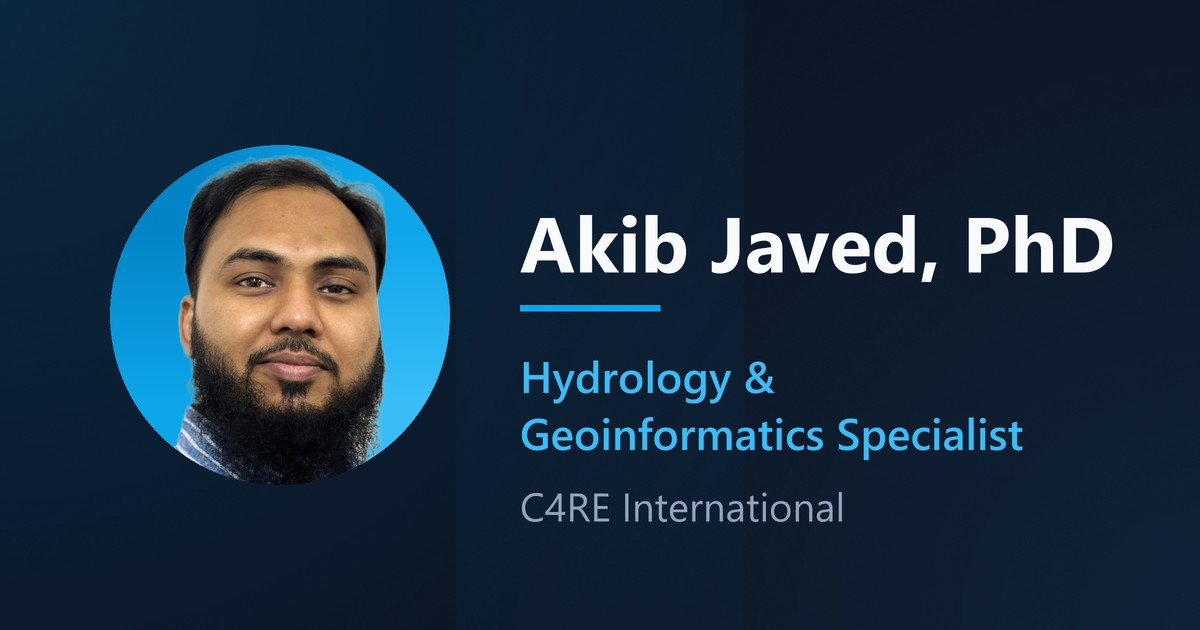
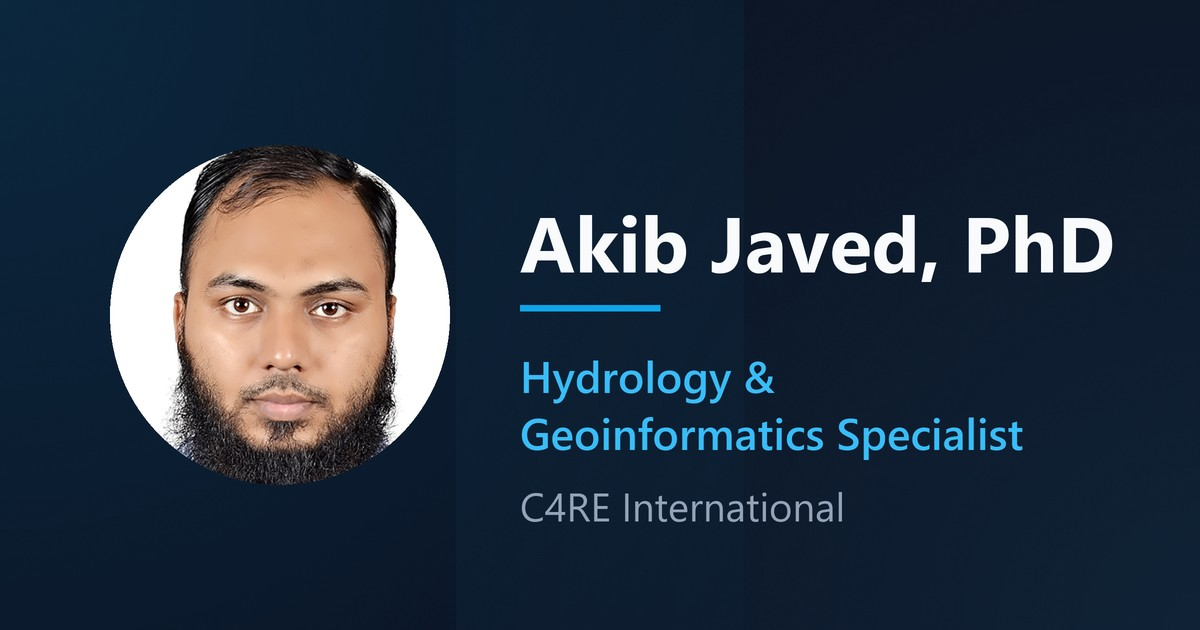
Replace the card photo with the new headshot
icon.png, og-image.jpg and the vCard PHOTO are all regenerated from 35-45.jpg:
a 413x531 headshot cropped to the square (0, 28, 413, 441), which puts the hair
flush to the top edge without clipping the beard. The frame was picked by
rendering the candidates and looking at them, not by arithmetic.

The previous source was a transparent cut-out composited over the card's
gradient. This photo is opaque with a white background of its own, so that
compositing only ever produced the photo back — it has been removed. A guard
now fails loudly if CROP stops fitting a replaced source photo, which is the
likeliest way this silently crops the wrong region.

The source photo stays untracked: Pages serves this branch, so committing it
would publish the full-resolution photograph at a public URL.

Changed region(s): [[0.0925, 0.2111, 0.4008, 0.7841]]

diff --git a/tools/make_assets.py b/tools/make_assets.py
@@ -1,13 +1,13 @@
 #!/usr/bin/env python3
 """Generate the digital card's image assets and refresh the vCard PHOTO field.
 
-    python tools/make_assets.py          regenerate icon.png, og-image.png, contact.vcf PHOTO
+    python tools/make_assets.py          regenerate icon.png, og-image.jpg, contact.vcf PHOTO
     python tools/make_assets.py --check  verify the artefacts on disk, write nothing
 
-Rerun this after replacing Akib_Javed_Photo_Square.png, or after changing a name/title
-string below. Pillow only, no other dependency. The assertions at the bottom are the check:
-they fail loudly if the framing overflows, the vCard photo is truncated, or the .vcf grows
-past the size contact importers tolerate.
+Rerun this after replacing 35-45.jpg, or after changing a name/title string below.
+Pillow only, no other dependency. The assertions at the bottom are the check: they fail loudly
+if the framing overflows, the vCard photo is truncated, or the .vcf grows past the size that
+contact importers tolerate.
 """
 
 from __future__ import annotations
@@ -21,26 +21,26 @@ from pathlib import Path
 from PIL import Image, ImageChops, ImageDraw, ImageFont
 
 ROOT = Path(__file__).resolve().parent.parent
-SOURCE = ROOT / "Akib_Javed_Photo_Square.png"
+SOURCE = ROOT / "35-45.jpg"
 ICON = ROOT / "icon.png"
 OG = ROOT / "og-image.jpg"
 VCF = ROOT / "contact.vcf"
 
-# Framing inside the 960x960 cut-out. Keeps the head centred with a little headroom so the
-# same crop works as a tab icon, a round avatar, and a vCard thumbnail.
-CROP = (100, 0, 860, 760)
+# Square crop of the 413x531 headshot: the top square, nudged down so the hair sits flush to
+# the top edge and the beard is not clipped at the bottom. Framed this way the head fills the
+# frame at any size, which is what a round avatar, a tab icon and a vCard thumbnail all want.
+CROP = (0, 28, 413, 441)
 
 NAME = "Akib Javed, PhD"
 TITLE_LINES = ("Hydrology &", "Geoinformatics Specialist")
 ORG = "C4RE International"
 
-# Palette, lifted from index.html's :root and .avatar-circle.
+# Palette, lifted from index.html's :root.
 BG = (11, 17, 32)               # --bg              #0B1120
 ACCENT = (14, 165, 233)         # --accent          #0EA5E9
 ACCENT_BRIGHT = (56, 189, 248)  # --accent-hover    #38BDF8
 MUTED = (148, 163, 184)         # --text-muted      #94A3B8
 MAIN = (248, 250, 252)          # --text-main       #F8FAFC
-GRAD = ((2, 132, 199), (14, 165, 233), (56, 189, 248))  # 135deg gradient stops
 
 FONT_DIR = Path("C:/Windows/Fonts")
 FONT_FILES = {
@@ -67,29 +67,11 @@ def font(weight: str, size: int) -> ImageFont.FreeTypeFont:
     raise SystemExit(f"make_assets: no usable {weight} font in {FONT_DIR}")
 
 
-def diagonal_gradient(size: int) -> Image.Image:
-    """135deg blend of the three avatar stops. A 2x2 corner image resized up is smooth
-    enough at these sizes and needs no per-pixel loop."""
-    small = Image.new("RGB", (2, 2))
-    small.putpixel((0, 0), GRAD[0])
-    small.putpixel((1, 0), GRAD[1])
-    small.putpixel((0, 1), GRAD[1])
-    small.putpixel((1, 1), GRAD[2])
-    return small.resize((size, size), Image.Resampling.BILINEAR)
-
-
 def portrait(size: int) -> Image.Image:
-    """The cut-out, cropped and resized to a square, alpha intact."""
-    src = Image.open(SOURCE).convert("RGBA").crop(CROP)
+    """The headshot, cropped square and resized. It carries its own white background, so
+    there is nothing to composite behind it — unlike the transparent cut-out it replaced."""
+    src = Image.open(SOURCE).convert("RGB").crop(CROP)
     return src.resize((size, size), Image.Resampling.LANCZOS)
-
-
-def portrait_on_gradient(size: int) -> Image.Image:
-    """Opaque square: brand gradient with the portrait over it. Used for the favicon and the
-    vCard photo, both of which need something behind a transparent cut-out."""
-    base = diagonal_gradient(size).convert("RGBA")
-    base.alpha_composite(portrait(size))
-    return base.convert("RGB")
 
 
 def glow(canvas: Image.Image, centre: tuple[int, int], radius: int, colour, alpha: int) -> None:
@@ -108,7 +90,7 @@ def glow(canvas: Image.Image, centre: tuple[int, int], radius: int, colour, alph
 
 
 def build_icon() -> None:
-    portrait_on_gradient(256).save(ICON, "PNG", optimize=True)
+    portrait(256).save(ICON, "PNG", optimize=True)
 
 
 def build_og() -> None:
@@ -120,8 +102,7 @@ def build_og() -> None:
     glow(canvas, (0, 0), int(w * 0.62), ACCENT, 38)          # rgba(14,165,233,.15)
     glow(canvas, (w, h), int(w * 0.62), ACCENT_BRIGHT, 26)   # rgba(56,189,248,.10)
 
-    disc = diagonal_gradient(340 * s).convert("RGBA")
-    disc.alpha_composite(portrait(340 * s))
+    disc = portrait(340 * s).convert("RGBA")
     circle = Image.new("L", disc.size, 0)
     ImageDraw.Draw(circle).ellipse((0, 0, disc.size[0] - 1, disc.size[1] - 1), fill=255)
     disc.putalpha(circle)
@@ -156,7 +137,7 @@ def build_og() -> None:
 
 def photo_b64() -> str:
     buf = io.BytesIO()
-    portrait_on_gradient(PHOTO_PX).save(buf, "JPEG", quality=PHOTO_QUALITY, optimize=True)
+    portrait(PHOTO_PX).save(buf, "JPEG", quality=PHOTO_QUALITY, optimize=True)
     return base64.b64encode(buf.getvalue()).decode("ascii")
 
 
@@ -218,6 +199,12 @@ def main() -> None:
         return
     if not SOURCE.exists():
         raise SystemExit(f"make_assets: missing source photo {SOURCE}")
+    with Image.open(SOURCE) as src:
+        # A replaced photo is the likeliest way CROP silently goes wrong: it would crop the
+        # wrong region or paste a short image into a long box instead of failing.
+        assert src.size[0] >= CROP[2] and src.size[1] >= CROP[3], (
+            f"make_assets: crop {CROP} does not fit {SOURCE.name} {src.size} — adjust CROP"
+        )
     build_icon()
     build_og()
     b64 = photo_b64()

diff --git a/README.md b/README.md
@@ -124,8 +124,9 @@ python tools/make_assets.py          # rewrites icon.png, og-image.jpg and the v
 python tools/make_assets.py --check  # verifies the committed files, writes nothing
 ```
 
-The script reads `Akib_Javed_Photo_Square.png` (960×960, transparent background) from the
-repository root — that source photo is deliberately **not** committed, so keep it alongside your
-local clone. Run `--check` before committing: it fails if the framing overflows, the vCard
-photo is truncated or the wrong size, or the files drift past the size limits that contact
-importers and link crawlers tolerate.
+The script reads `35-45.jpg` (413×531 headshot) from the repository root and crops it to the
+square set by `CROP` in the script. That source photo is deliberately **not** committed: this
+repository is published by GitHub Pages, so committing it would serve your full-resolution
+photograph from a public URL. Keep it alongside your local clone instead. Run `--check` before
+committing: it fails if the framing overflows, the vCard photo is truncated or the wrong size,
+or the files drift past the size limits that contact importers and link crawlers tolerate.
